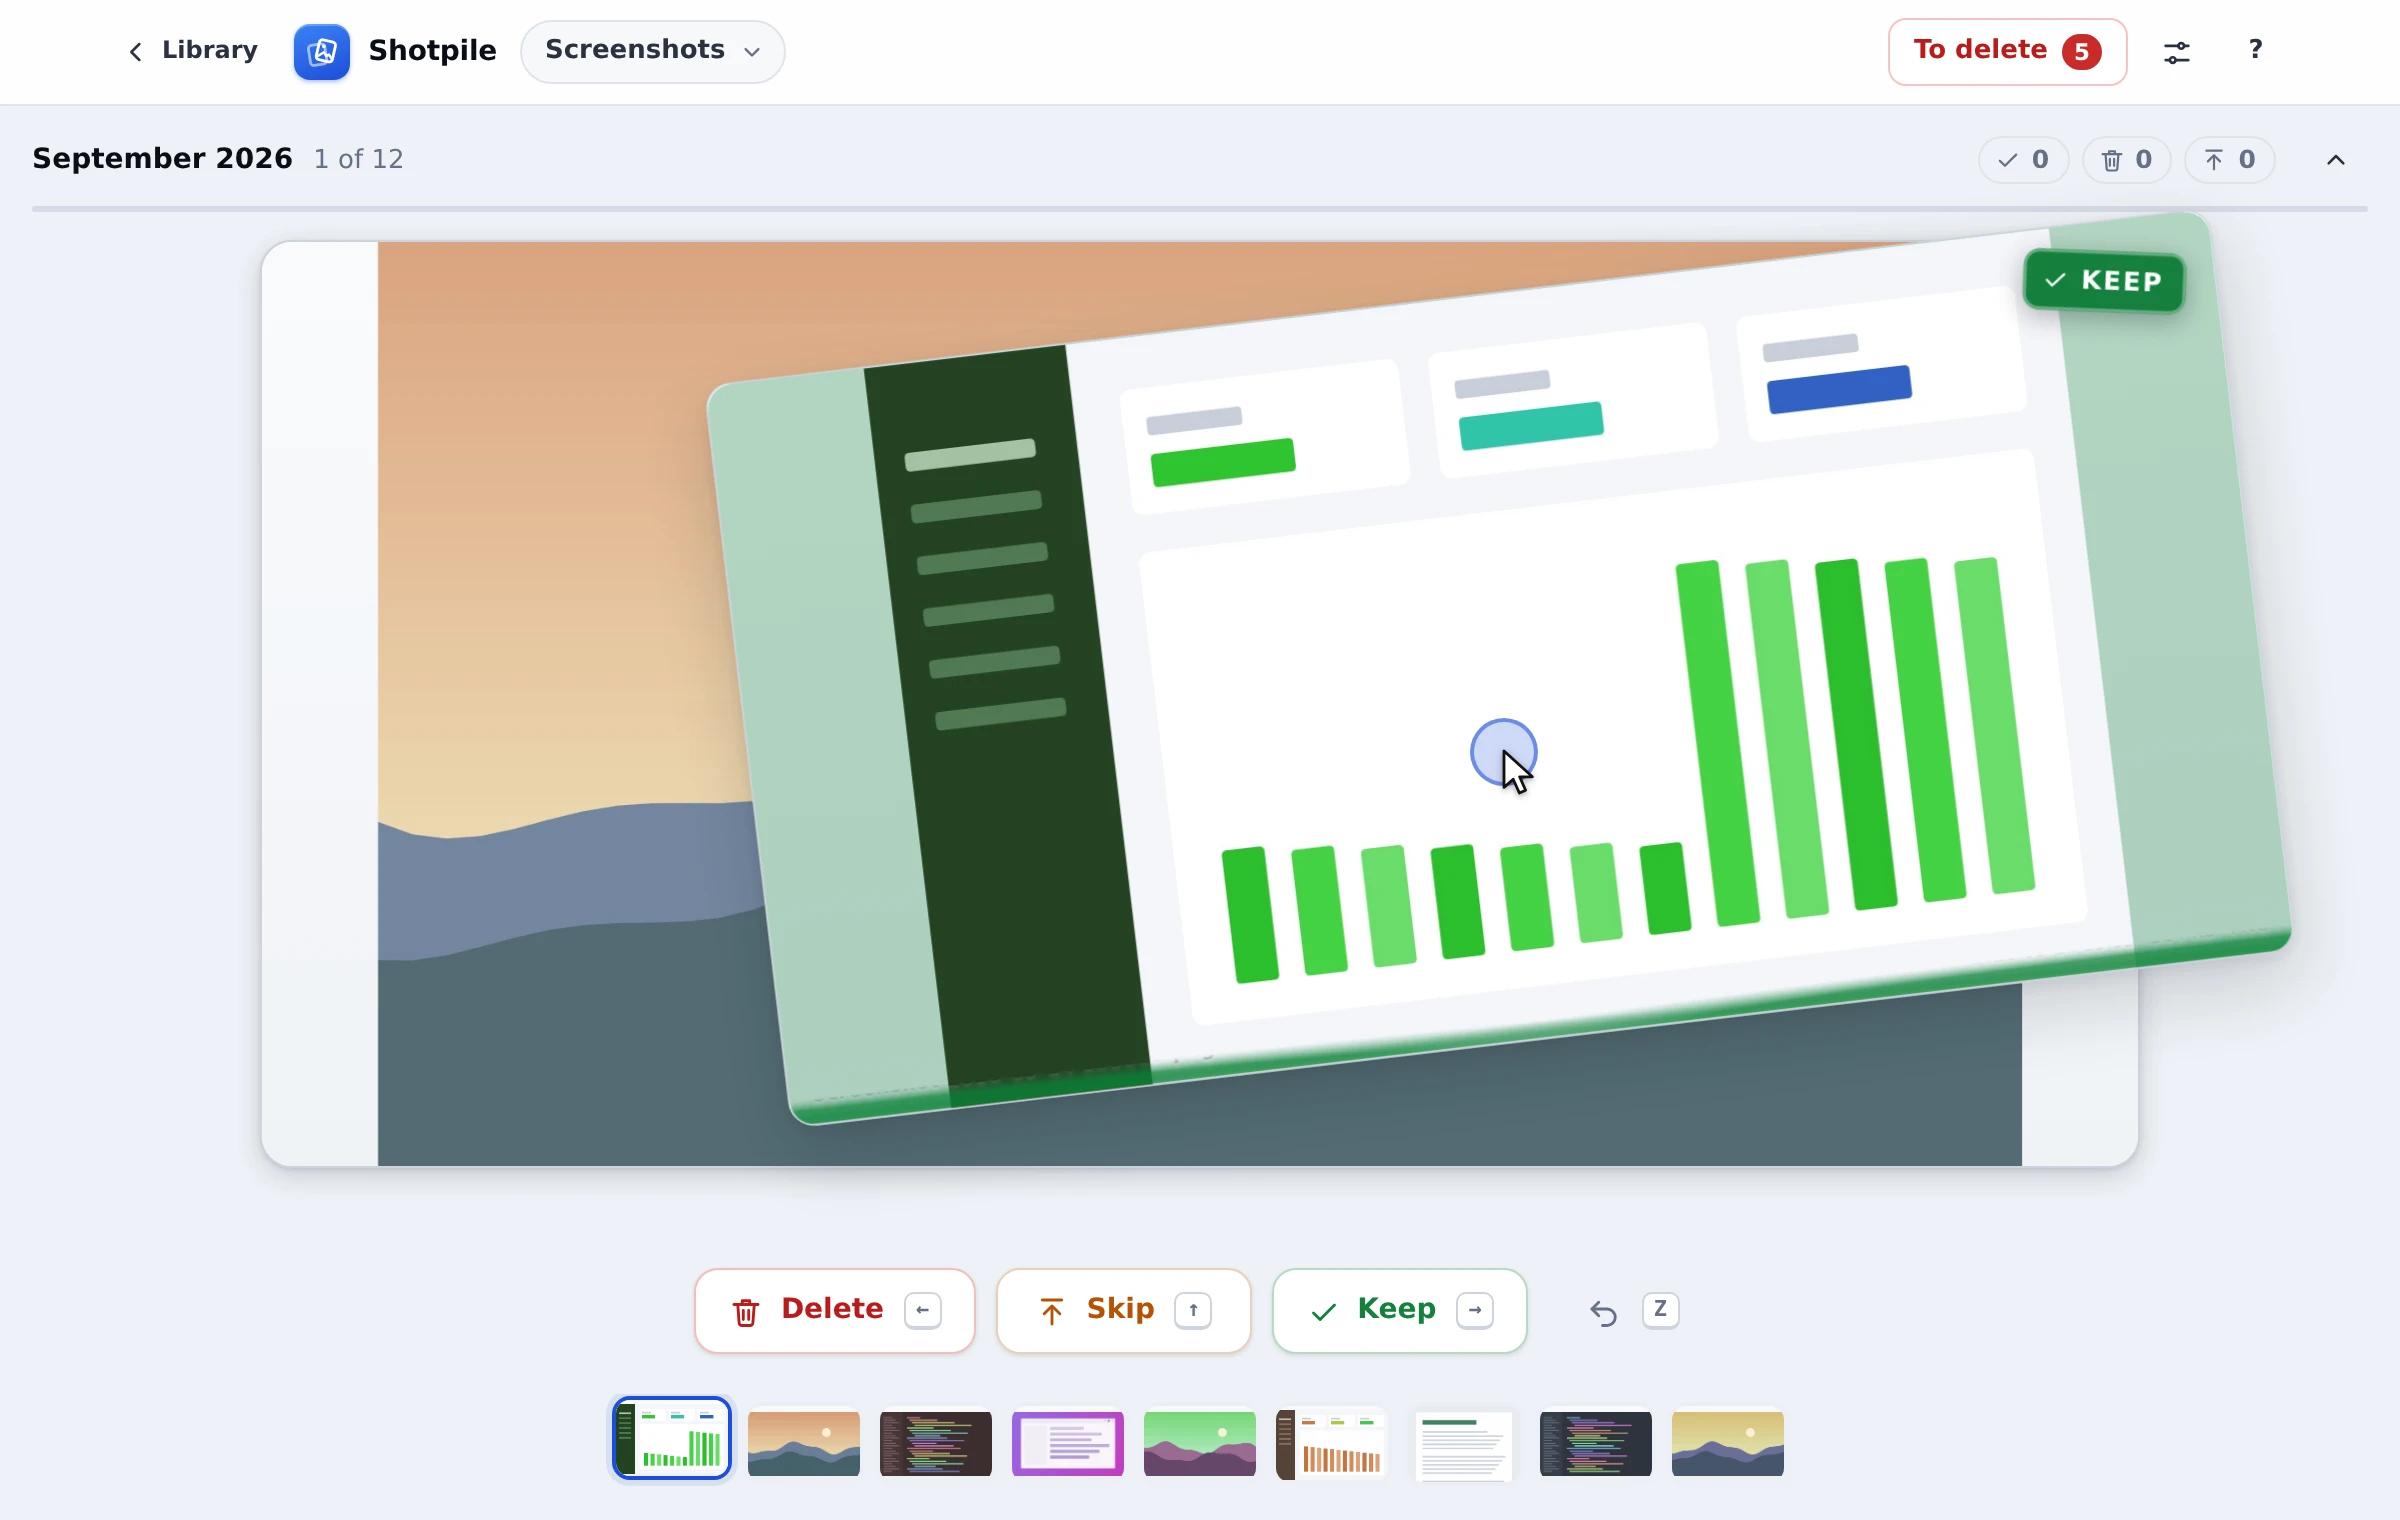
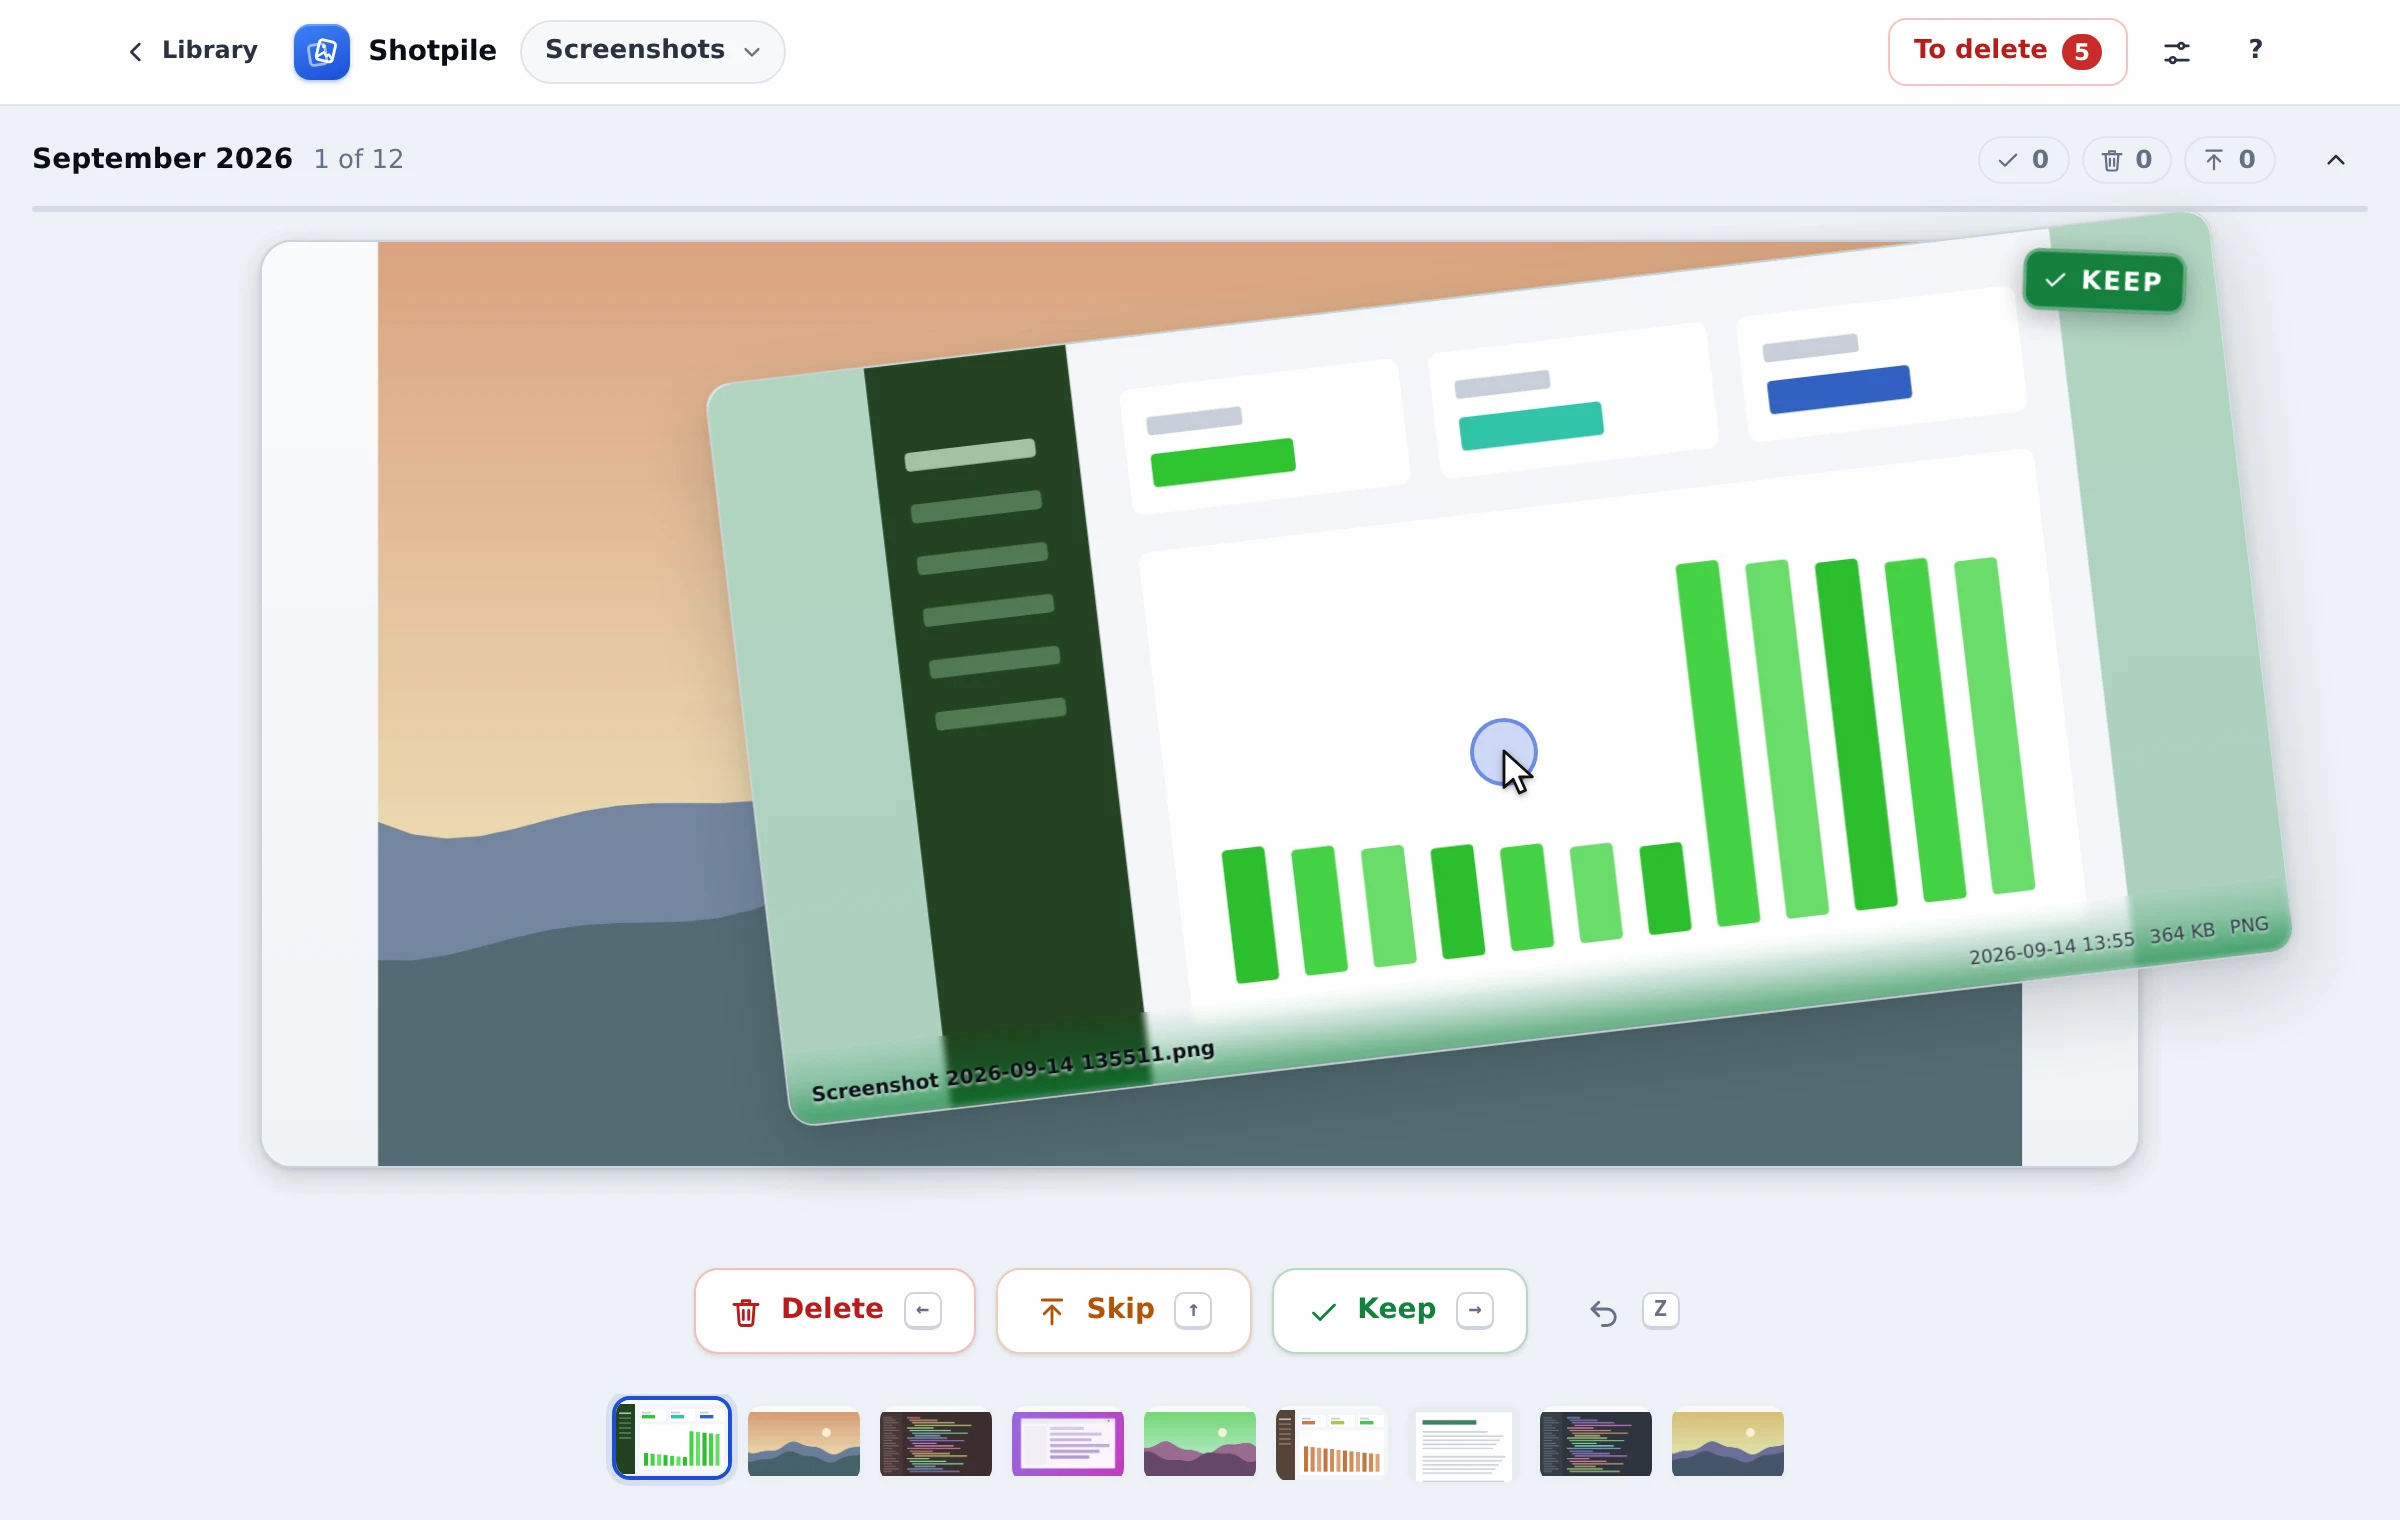
Release 1.9.0: shortcuts from one table, themed tooltips, info bar blur fix, docs and pictures
Claude-Session: https://claude.ai/code/session_01DyTzRBqRHvmctE4KRDf3Gn

Changed region(s): [[0.3125, 0.5875, 0.9688, 0.7421]]

diff --git a/src/style.css b/src/style.css
@@ -965,6 +965,7 @@ kbd {
   content: "";
   position: absolute;
   inset: 0;
+  z-index: -1; /* behind the bar's own text, or it blurs the text it sits under */
   pointer-events: none;
   backdrop-filter: saturate(115%) blur(2px);
   -webkit-backdrop-filter: saturate(115%) blur(2px);

diff --git a/HANDOFF.md b/HANDOFF.md
@@ -25,6 +25,21 @@ the code, not confirmed. Status as of the last session:
   returned); that is fixed in 1.8.0 with logic and GUI tests, **not yet
   re-confirmed by hand**. The GUI suite's dependence on the host OS
   colour scheme is fixed too.
+- **1.8.0 shortcut fix did not fully land; 1.9.0 redoes it.** The user still saw
+  the shortcuts help showing old keys: the help sheet was a hardcoded list, a
+  second source of truth beside `ACTIONS`/`DEFAULT_KEYS`. It is now generated by
+  `shortcutHelp()` in logic.js from the live bindings plus `FIXED_SHORTCUTS`
+  (the keys that cannot be rebound); the review buttons' key hints and tooltips
+  use `hintKey()`. The reported "Reset zoom does nothing" was a naming problem:
+  the rebindable action zooms the *card*, Ctrl+0 is the fixed *app* zoom; the
+  labels now say so. Reset in Options and the Keyboard shortcuts button repaint
+  in place (no close/reopen flash); empty/Space bindings no longer collapse.
+  A rebound letter binds both cases. The card info bar's text was faded by a
+  mask on `.foot`; removed. The "Zoom N%" toast is gone (Options shows the
+  value). Tooltips: every `title` is now shown by one themed bubble
+  (`initTooltips()` in dom.js; it lifts the attribute while shown, restores it
+  on leave), plus a tooltip content pass. Verified in headless tests only; not
+  yet re-confirmed by hand on Windows.
 - **Open:** A7 (the rest of the thin coverage).
 - 1.8.0 also: the library's Filter became a *View* dialog (sort by date, size or
   left to sort, reversible, plus show/hide sorted months; `sortMonths` in

diff --git a/AGENTS.md b/AGENTS.md
@@ -92,8 +92,8 @@ is always `db`, then `undo`.
 ## Verify before claiming done
 
 ```powershell
-npm run test:logic                          # 62 frontend logic tests
-npm run test:gui                            # 296 GUI assertions in headless Chrome
+npm run test:logic                          # 67 frontend logic tests
+npm run test:gui                            # 328 GUI assertions in headless Chrome
 cd src-tauri; cargo test                    # 72 unit + 4 end-to-end tests
 cd src-tauri; cargo clippy --all-targets -- -D warnings
 cd src-tauri; cargo fmt --check
@@ -359,4 +359,10 @@ library (`seedDemo()` in the fake), which is also what the README pictures show.
 - Avoid generic dashboard furniture (rows of identical stat tiles, an icon in
   a tinted circle on every element): say the number in a sentence, or show it
   where it is used, as the library's overview line and stacked bar do.
+- **One source for shortcuts.** `ACTIONS` + `DEFAULT_KEYS` (rebindable) and
+  `FIXED_SHORTCUTS` (not) in logic.js feed Options, the help sheet and every
+  key hint; never write a key name into UI text by hand, use `hintKey()`.
+- **Tooltips are `title` attributes**, rendered by `initTooltips()` (dom.js).
+  Do not style or build a second tooltip; icon-only buttons need a title and
+  an aria-label.
 - Keep diffs minimal. No drive-by refactors.

diff --git a/README.md b/README.md
@@ -196,8 +196,8 @@ Both are always on, including in release builds.
 
 ```powershell
 npm test                                  # both JS suites
-npm run test:logic                        # 60 logic tests (node --test)
-npm run test:gui                          # 262 GUI assertions in headless Chrome
+npm run test:logic                        # 67 logic tests (node --test)
+npm run test:gui                          # 328 GUI assertions in headless Chrome
 cd src-tauri; cargo test                  # 78 unit + 4 end-to-end tests
 cd src-tauri; cargo clippy --all-targets -- -D warnings
 cd src-tauri; cargo fmt --check
